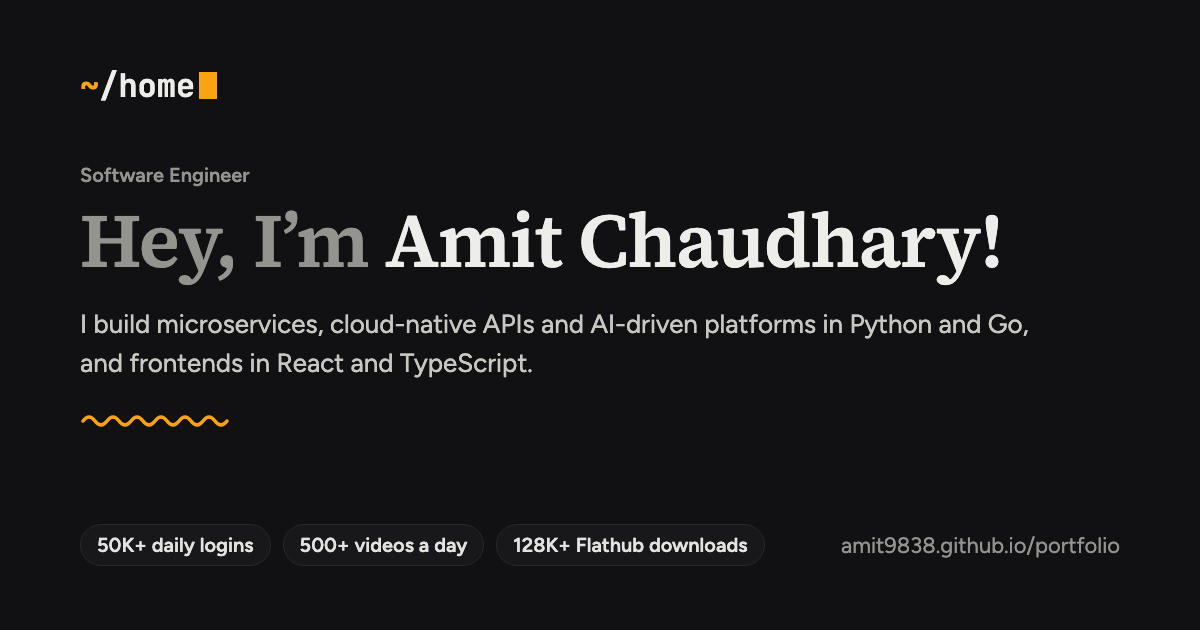
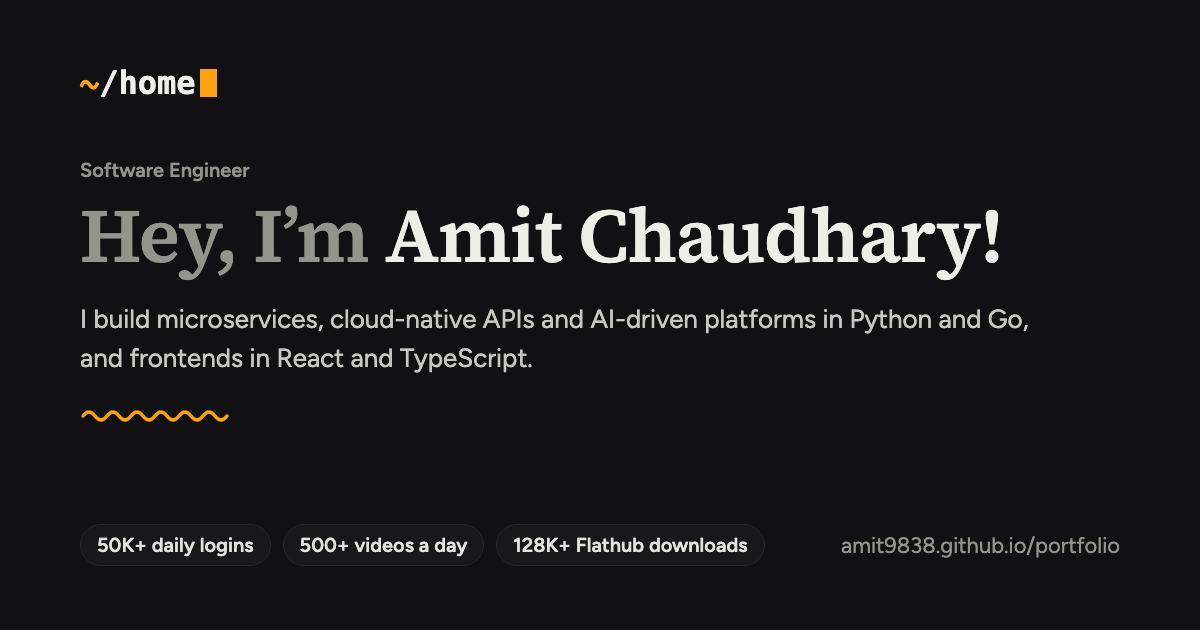
Use the system monospace font instead of JetBrains Mono
The header logo and nav tabs use each platform's monospace (SF Mono, Menlo,
Consolas, Liberation Mono), so no mono font is downloaded. The social image
uses the same stack and is regenerated; AGENTS.md and README are updated.

diff --git a/src/styles/global.css b/src/styles/global.css
@@ -7,7 +7,6 @@
 @import '@fontsource-variable/figtree';
 @import '@fontsource-variable/source-serif-4';
 @import '@fontsource-variable/source-serif-4/wght-italic.css';
-@import '@fontsource-variable/jetbrains-mono';
 
 /*
  * Design tokens — the ONLY place colours are defined (enforced by `npm run lint:tokens`).
@@ -17,13 +16,14 @@
 @theme {
   --color-*: initial;
   /*
-   * Figtree for UI/body, Source Serif 4 for headings. JetBrains Mono is for the
-   * header only: the logo (the terminal prompt) and the nav tabs. Generic keywords are the only fallback.
+   * Figtree for UI/body, Source Serif 4 for headings. The system monospace font is for the
+   * header only: the logo (the terminal prompt) and the nav tabs. The mono stack lists each platform's
+   * modern system monospace (the bare keyword gives Courier); elsewhere generic keywords are the only fallback.
    */
   --font-*: initial;
   --font-sans: 'Figtree Variable', sans-serif;
   --font-serif: 'Source Serif 4 Variable', serif;
-  --font-mono: 'JetBrains Mono Variable', monospace;
+  --font-mono: ui-monospace, 'SF Mono', Menlo, Consolas, 'Liberation Mono', monospace;
   --default-font-family: var(--font-sans);
   --default-mono-font-family: var(--font-sans);
 

diff --git a/AGENTS.md b/AGENTS.md
@@ -58,7 +58,7 @@ tests/site.spec.ts  Playwright end-to-end tests
 - **Colours exist only as tokens in `src/styles/global.css`** (`--color-page`, `--color-surface`, `--color-strong`, `--color-body`, `--color-muted`, `--color-accent`, `--color-accent-ink`, …). Tailwind's default palette is disabled. Use token classes (`bg-surface`, `text-muted`), never hex or arbitrary colours. `npm run lint:tokens` enforces this (`src/assets/` artwork is exempt).
 - Every text colour must meet WCAG AA in **both** themes. Light-theme values live in `:root[data-theme='light']`. Check with `npm run lint:contrast`.
 - Amber `--color-accent` is for decoration. Text in the accent colour uses `--color-accent-ink`.
-- **Typefaces:** Figtree (`font-sans`, body and UI) and Source Serif 4 (`font-serif`, headings). JetBrains Mono (`font-mono`) is for the header only: the `~/home` logo and the nav tabs. Don't use it elsewhere. Don't add fonts or fallback stacks.
+- **Typefaces:** Figtree (`font-sans`, body and UI) and Source Serif 4 (`font-serif`, headings). The system monospace stack (`font-mono`: `ui-monospace`, SF Mono, Menlo, Consolas, Liberation Mono, `monospace`; nothing bundled) is for the header only: the `~/home` logo and the nav tabs. Don't use it elsewhere. Don't add fonts, and no fallback stacks beyond that one.
 - Paragraph line height is **1.5** site-wide via the theme. Don't add `leading-*` to paragraphs. Only display text (page titles, stat numbers: `leading-[1.1]`) and tags override it.
 - Mobile-first. Breakpoints: `sm` 640px (type and stats), `md` 768px (header switches from drawer to inline nav). Nothing may scroll horizontally from 320px up.
 

diff --git a/README.md b/README.md
@@ -47,7 +47,7 @@ scripts/        Lint, test and image-generation scripts
 tests/          Playwright end-to-end tests
 ```
 
-Colours are design tokens in `src/styles/global.css`; components use token classes (`bg-surface`, `text-muted`) and never raw colours. Typefaces are Figtree (text), Source Serif 4 (headings) and JetBrains Mono (the header logo and nav tabs), served from the site itself.
+Colours are design tokens in `src/styles/global.css`; components use token classes (`bg-surface`, `text-muted`) and never raw colours. Typefaces are Figtree (text) and Source Serif 4 (headings), served from the site itself; the header logo and nav tabs use the system monospace font.
 
 ## Checks
 
